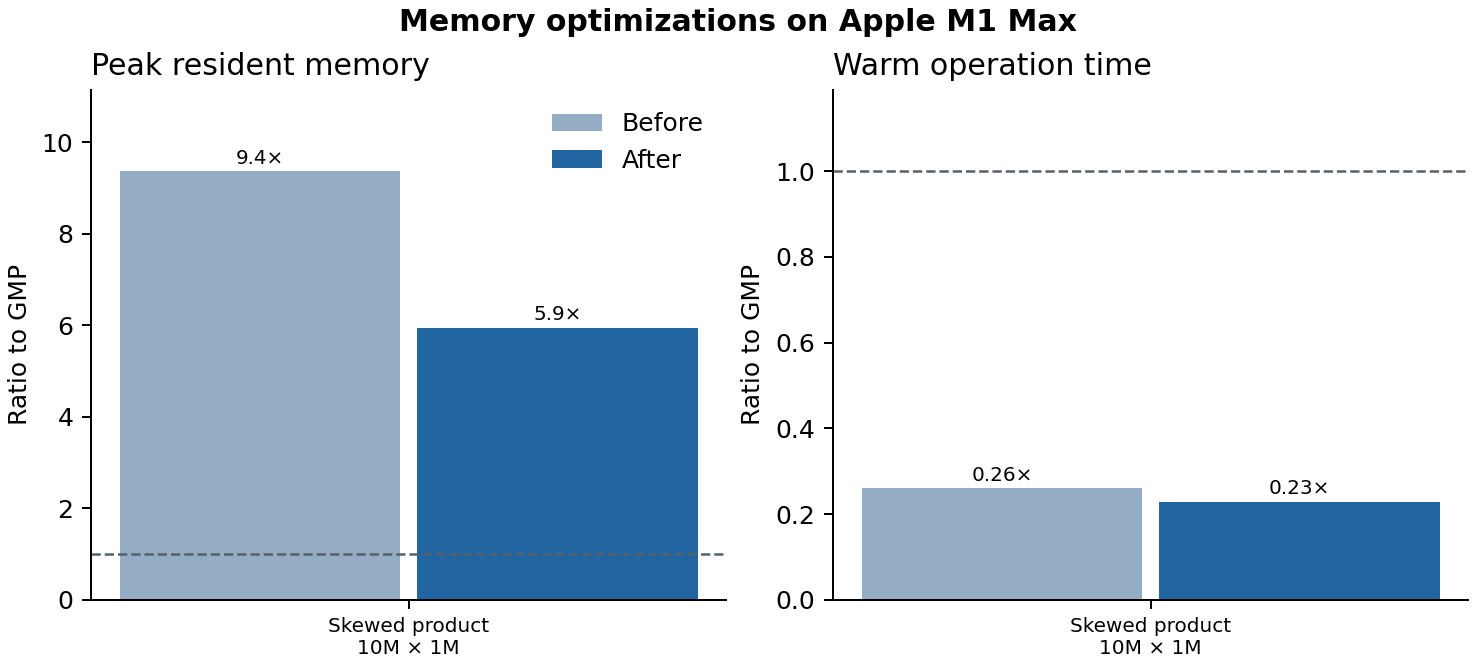
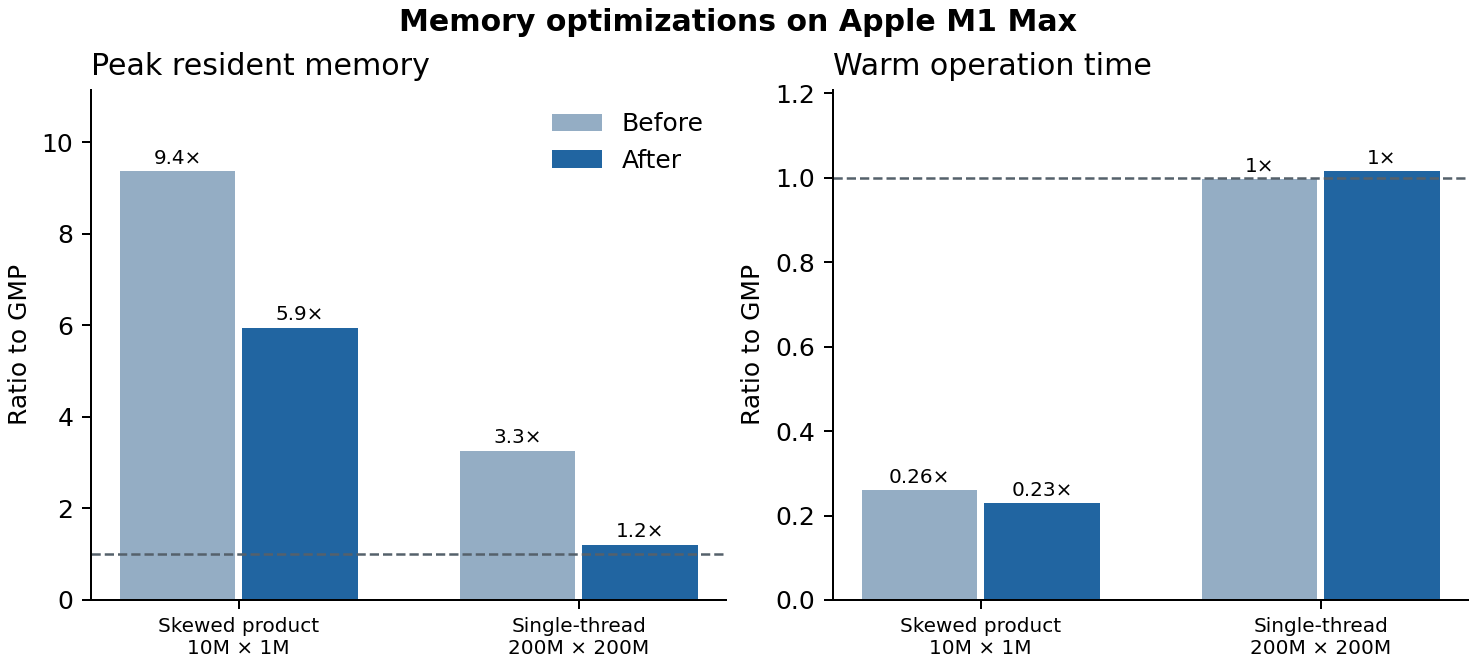
Factor large negacyclic weights into compact tables

diff --git a/include/biginteger/algorithms/multiplication/NTTMultiplicationCrt.h b/include/biginteger/algorithms/multiplication/NTTMultiplicationCrt.h
@@ -2113,11 +2113,107 @@ namespace BigMath
         dst[i] = F::Add(dst[i], src[i]);
     }
 
+    // The large serial H + L transform needs only the negacyclic weights
+    // from its length-2H plan. For j = 256*b + t, store ψ^(256*b) and ψ^t.
+    template <typename F>
+    struct FactoredWeights
+    {
+      static constexpr SizeT Block = 256;
+#if BIGMATH_NEON
+      static constexpr SizeT Stride = 2;  // interleaved Shoup companion
+#else
+      static constexpr SizeT Stride = 1;
+#endif
+      std::vector<UInt> offsets, blocks;
+
+      static std::vector<UInt> Powers(UInt step, SizeT count)
+      {
+        std::vector<UInt> table(count * Stride);
+        UInt value = 1;
+        for (SizeT i = 0; i < count; ++i)
+        {
+          table[Stride * i] = value;
+#if BIGMATH_NEON
+          table[Stride * i + 1] = ShoupCompanion<F>(value);
+#endif
+          value = F::Mul(value, step);
+        }
+        return table;
+      }
+
+      FactoredWeights(UInt root, SizeT h)
+          : offsets(Powers(root, std::min(Block, h))),
+            blocks(Powers(F::Power(root, Block), (h + Block - 1) / Block)) {}
+
+      UInt Apply(SizeT j, UInt x) const
+      {
+        return F::Mul(F::Mul(x, offsets[Stride * (j % Block)]), blocks[Stride * (j / Block)]);
+      }
+#if BIGMATH_NEON
+      // Callers advance four aligned coefficients at a time within a block.
+      uint32x4_t Apply(SizeT j, uint32x4_t x) const
+      {
+        const auto offset = vld2q_u32(offsets.data() + Stride * (j % Block));
+        const UInt *block = blocks.data() + Stride * (j / Block);
+        return NeonShoupMul<F>(vdupq_n_u32(block[0]), vdupq_n_u32(block[1]),
+                               NeonShoupMul<F>(offset.val[0], offset.val[1], x));
+      }
+#endif
+    };
+
+    template <typename F>
+    struct FullWeights
+    {
+      const UInt *roots;
+#if BIGMATH_NEON
+      const UInt *interleaved;
+      uint32x4_t Apply(SizeT j, uint32x4_t x) const
+      {
+        const auto tw = vld2q_u32(interleaved + 2 * j);
+        return NeonShoupMul<F>(tw.val[0], tw.val[1], x);
+      }
+#endif
+      UInt Apply(SizeT j, UInt x) const { return F::Mul(x, roots[j]); }
+    };
+
+    template <bool Inverse, typename F>
+    inline FullWeights<F> WeightDirection(const Plan<F> &plan)
+    {
+      return {Inverse ? plan.inverseRoots.data() : plan.forwardRoots.data()
+#if BIGMATH_NEON
+              , Inverse ? plan.inverseIl.data() : plan.forwardIl.data()
+#endif
+      };
+    }
+
+    template <typename F>
+    struct NegacyclicWeights
+    {
+      FactoredWeights<F> forward, inverse;
+      NegacyclicWeights(UInt root, SizeT h) : forward(root, h), inverse(F::Inv(root), h) {}
+    };
+
+    template <bool Inverse, typename F>
+    inline const FactoredWeights<F> &WeightDirection(const NegacyclicWeights<F> &weights)
+    {
+      return Inverse ? weights.inverse : weights.forward;
+    }
+
+    template <typename F, UInt G>
+    inline const NegacyclicWeights<F> &GetNegacyclicWeights(Int h)
+    {
+      static thread_local std::unordered_map<Int, NegacyclicWeights<F>> cache;
+      auto it = cache.find(h);
+      if (it != cache.end()) return it->second;
+      const UInt root = F::Power(G, (F::Prime - 1) / (UInt)(2 * h));
+      return cache.try_emplace(h, root, (SizeT)h).first->second;
+    }
+
     // Pack one operand for one prime into [ lower | cyc ]:
     //   lower[j] = (a_j − a_{j+H}) · ψ^j,   cyc[i] = Σ_k a_{i+kL}   (mod P).
-    template <typename F>
+    template <typename F, typename Weights>
     inline void TruncPackWeightFold(const std::vector<DataT> &v, BaseT base, UInt *plane,
-                                    Int H, Int L, const Plan<F> &plan2H)
+                                    Int H, Int L, const Weights &plan2H)
     {
       UInt *lower = plane;
       UInt *cyc = plane + H;
@@ -2151,44 +2247,40 @@ namespace BigMath
       }
 
       // Negacyclic weights ψ^j on the non-zero prefix.
-      const UInt *roots = plan2H.forwardRoots.data();
+      const auto &weights = WeightDirection<false>(plan2H);
       SizeT j = 0;
 #if BIGMATH_NEON
-      const UInt *il = plan2H.forwardIl.data();
       for (; j + 4 <= lowCount; j += 4)
       {
-        uint32x4x2_t tw = vld2q_u32(il + 2 * j); // val[0] = ψ^j, val[1] = companion
-        vst1q_u32(lower + j, NeonShoupMul<F>(tw.val[0], tw.val[1], vld1q_u32(lower + j)));
+        vst1q_u32(lower + j, weights.Apply(j, vld1q_u32(lower + j)));
       }
 #endif
       for (; j < lowCount; ++j)
-        lower[j] = F::Mul(lower[j], roots[j]);
+        lower[j] = weights.Apply(j, lower[j]);
     }
 
     // After both inverse transforms (each scaled): unweight the lower part,
     // then recombine into [ C_lo | C_hi ] as derived above.
-    template <typename F>
-    inline void TruncUnweightReconstruct(UInt *plane, Int H, Int L, const Plan<F> &plan2H)
+    template <typename F, typename Weights>
+    inline void TruncUnweightReconstruct(UInt *plane, Int H, Int L, const Weights &plan2H)
     {
       UInt *lower = plane;
       UInt *cyc = plane + H;
-      const UInt *roots = plan2H.inverseRoots.data();
+      const auto &weights = WeightDirection<true>(plan2H);
       for (Int k = 0; k < H; k += L)
       {
         Int i = 0;
 #if BIGMATH_NEON
-        const UInt *il = plan2H.inverseIl.data() + 2 * (SizeT)k;
         for (; i + 4 <= L; i += 4)
         {
-          uint32x4x2_t tw = vld2q_u32(il + 2 * i); // ψ^−(k+i) and companion
-          uint32x4_t x = NeonShoupMul<F>(tw.val[0], tw.val[1], vld1q_u32(lower + k + i));
+          uint32x4_t x = weights.Apply(k + i, vld1q_u32(lower + k + i));
           vst1q_u32(lower + k + i, x);                              // C1[k + i]
           vst1q_u32(cyc + i, NeonSub<F>(vld1q_u32(cyc + i), x));    // C2[i] − F[i], accumulating
         }
 #endif
         for (; i < L; ++i)
         {
-          const UInt x = F::Mul(lower[k + i], roots[k + i]);
+          const UInt x = weights.Apply(k + i, lower[k + i]);
           lower[k + i] = x;
           cyc[i] = F::Sub(cyc[i], x);
         }
@@ -3380,7 +3472,7 @@ namespace BigMath
     template <typename F, UInt G>
     inline void TruncSerialPrime(const std::vector<DataT> &a, const std::vector<DataT> *b,
                                  BaseT base, Int H, Int L, Int mfaMin,
-                                 UInt *pa, UInt *pb, UInt *scratch, const Plan<F> &plan2H)
+                                 UInt *pa, UInt *pb, UInt *scratch, const NegacyclicWeights<F> &plan2H)
     {
       const bool mfaH = H >= mfaMin && H > (Int)BIGMATH_NTT_MFA_LEAF;
       const bool mfaL = L >= mfaMin && L > (Int)BIGMATH_NTT_MFA_LEAF;
@@ -3440,9 +3532,9 @@ namespace BigMath
       f3.resize(len);
       if (b != nullptr) fb.resize(len);
       scratch.resize((SizeT)H);
-      TruncSerialPrime<F1, G1>(a, b, base, H, L, mfaMin, f1.data(), fb.data(), scratch.data(), GetPlan<F1, G1>(2 * H));
-      TruncSerialPrime<F2, G2>(a, b, base, H, L, mfaMin, f2.data(), fb.data(), scratch.data(), GetPlan<F2, G2>(2 * H));
-      TruncSerialPrime<F3, G3>(a, b, base, H, L, mfaMin, f3.data(), fb.data(), scratch.data(), GetPlan<F3, G3>(2 * H));
+      TruncSerialPrime<F1, G1>(a, b, base, H, L, mfaMin, f1.data(), fb.data(), scratch.data(), GetNegacyclicWeights<F1, G1>(H));
+      TruncSerialPrime<F2, G2>(a, b, base, H, L, mfaMin, f2.data(), fb.data(), scratch.data(), GetNegacyclicWeights<F2, G2>(H));
+      TruncSerialPrime<F3, G3>(a, b, base, H, L, mfaMin, f3.data(), fb.data(), scratch.data(), GetNegacyclicWeights<F3, G3>(H));
     }
 
     // The product through CrtTruncSerial with explicit lengths. NttCrt::Multiply

diff --git a/tests/unit/test_ntt_crt_truncated.cpp b/tests/unit/test_ntt_crt_truncated.cpp
@@ -334,3 +334,25 @@ REGISTER_TEST(NttCrtTruncatedSerial, DispatchSizes)
 #endif // BIGMATH_NTT_MFA
 
 #endif
+
+#if BIGMATH_NTT_MFA
+REGISTER_TEST(NttCrtTruncatedSerial, FactoredWeightsCrossBlockBoundaries)
+{
+  std::mt19937_64 gen(0xC01DF00D);
+  // An odd coefficient count exercises the scalar tail after complete blocks.
+  for (BaseT base : {Base2_32, Base2_64})
+  {
+    const Int h = 2048;
+    const SizeT count = h / (2 * NttCrt::CoeffsPerLimb(base)) + 1;
+    auto a = Limbs(count, 0, gen);
+    auto b = Limbs(count, 0, gen);
+    if (base == Base2_32)
+    {
+      for (auto &x : a) x &= 0xffffffffu;
+      for (auto &x : b) x &= 0xffffffffu;
+    }
+    ASSERT_TRUE(NttCrt::MultiplyTruncSerial(a, b, base, h, 64) ==
+                ClassicMultiplication::Multiply(a, b, base));
+  }
+}
+#endif

diff --git a/docs/images/make_memory_fix_plot.py b/docs/images/make_memory_fix_plot.py
@@ -10,6 +10,7 @@ import matplotlib.pyplot as plt
 HERE = Path(__file__).resolve().parent
 CASES = [
     ("skew-default", "mul", 10_000_000, 1_000_000, "Skewed product\n10M × 1M"),
+    ("weights-single", "mul", 200_000_000, 200_000_000, "Single-thread\n200M × 200M"),
 ]
 fig, axes = plt.subplots(1, 2, figsize=(8.2, 3.7), layout="constrained")
 for ax, field, title in zip(axes, ("warm_peak_bytes", "warm_ms"),

diff --git a/BENCHMARK.md b/BENCHMARK.md
@@ -195,6 +195,17 @@ Compared with `9a3f89a`, skewed products with an available fused matrix transfor
 | mul 10M × 625k | 169.1 MiB · 18.0 ms | 110.5 MiB · 16.7 ms | 17.3 MiB · 78.3 ms |
 | mul 12M × 1.2M | 180.4 MiB · 24.9 ms | 112.2 MiB · 17.7 ms | 26.3 MiB · 65.0 ms |
 
+### Compact single-thread weights
+
+The large serial truncated transform now factors each weight into a block and offset. The baseline is the single-thread path from `9a3f89a`, also used by `dbe3b06`. The 10M case exercises the smaller transform. The 162M inputs use the seeded generator. [All observations](docs/benchmarks/memory-fix-weights-single.csv)
+
+| Shape | Before | After | GMP |
+|---|---:|---:|---:|
+| mul 10M × 10M | 107.4 MiB · 110.9 ms | 107.4 MiB · 111.1 ms | 75.4 MiB · 207.4 ms |
+| mul 50M × 50M | 919.9 MiB · 632.7 ms | 345.2 MiB · 640.7 ms | 280.6 MiB · 653.8 ms |
+| mul 162M × 162M | 3,410.6 MiB · 2,400.2 ms | 1,112.5 MiB · 2,419.3 ms | 932.3 MiB · 2,369.8 ms |
+| mul 200M × 200M | 3,640.6 MiB · 2,860.5 ms | 1,342.5 MiB · 2,917.0 ms | 1,116.8 MiB · 2,872.3 ms |
+
 ## Peak memory and large-product time
 
 The November 21, 2026 run measured the implementation from `e62e77f` on an Apple M1 Max with 32 GiB of RAM. Each operation ran in three fresh processes, one each for GMP 6.3.0, threaded BigMath (up to eight threads), and single-threaded BigMath. The 111 standard cases use the same operands as the timing tables above. Thirteen additional balanced products bracket transform boundaries and extend the sweep to one billion decimal digits per operand. [All times, RSS readings, statuses and hashes](docs/benchmarks/2026-11-21-peak-memory-m1-max.csv) · [Run the benchmark](tests/performance/benchsuite/README.md#isolated-peak-memory-and-time)

diff --git a/README.md b/README.md
@@ -26,6 +26,8 @@ The 10-million-digit balanced product took 17.74 ms. At 50, 100 and 200 million 
 
 Threaded multiplication now uses the fused matrix transform for large operands at ratios of at least 8 to 1. At 10M × 1M digits, peak RSS fell from 173.3 to 109.9 MiB and warm time from 18.0 to 15.8 ms. [Paired measurements](BENCHMARK.md#memory-optimization-benchmarks)
 
+At 200M digits per operand, compact weights cut single-threaded peak RSS from 3.56 to 1.31 GiB. Warm products took 2.86 s before and 2.92 s after. GMP used 1.09 GiB.
+
 ![Peak memory and warm time before and after each optimization relative to GMP](docs/images/bigmath_memory_fixes.png)
 
 In the original November 21 sweep on the M1 Max, the largest relative peak in the standard suite was formatting 10 million digits. Threaded BigMath used 531 MiB and GMP used 46 MiB. Multiplying 10M × 1M digits used 173 MiB and 19 MiB respectively. At 200M × 200M digits, peak RSS was 2.90 GiB for threaded BigMath, 3.56 GiB for single-threaded BigMath and 1.09 GiB for GMP. [Memory measurements and controlled comparisons](BENCHMARK.md#peak-memory-and-large-product-time)

diff --git a/docs/MULTIPLICATION.md b/docs/MULTIPLICATION.md
@@ -1235,6 +1235,11 @@ scheme continues for `2^21 ≤ H ≤ 2^25` (`BIGMATH_NTT_TRUNC_SERIAL_MAX`) as
   last stage writes it, so four planes of `H + L` entries and one of `H` are
   live, against nine of `2H` for the full fused transform.
 
+The serial transform stores negacyclic weights in blocks of 256 coefficients.
+For index `j = 256b + t`, it applies the block factor `ψ^(256b)` and the offset
+factor `ψ^t`. At `H = 2^25`, both directions across the three primes occupy
+about 6 MiB on NEON. The former length-`2H` plans occupied 2.25 GiB.
+
 Its band is the whole octave (`BIGMATH_NTT_TRUNC_SERIAL_BAND_SHIFT = 0`,
 `c ≤ 2H`): at `L = H` the transform work equals the full transform's, but two
 length-`H` transforms on five planes still cost less than one length-`2H`
